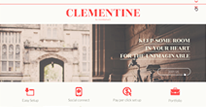
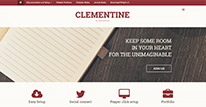
Shadow effect

diff --git a/code/less/template.less b/code/less/template.less
@@ -1524,6 +1524,19 @@ dl.article-info {
     padding: 5px;
 }
 
+.shadow-bottom:after {
+  background-image: url(../images/shadow-bottom.png);
+  background-repeat: repeat-x;
+  background-position: top;
+  background-size: auto 100%;
+  content: "";
+  display: block;
+  height: 26px;
+  position: absolute;
+  width: 100%;
+  z-index: 2;
+}
+
 [class*="bg_color"] {
     padding-bottom: 30px;
     padding-top: 30px;

diff --git a/code/template.php b/code/template.php
@@ -38,7 +38,7 @@ defined('_JEXEC') or die('Restricted access');
 		?>
 
 		<div class="total relative">
-			<div class="bg_color_one padding-none">
+			<div class="bg_color_one padding-none shadow-bottom">
 				<?php
 					if ($this->countModules('toolbar'))
 						:
